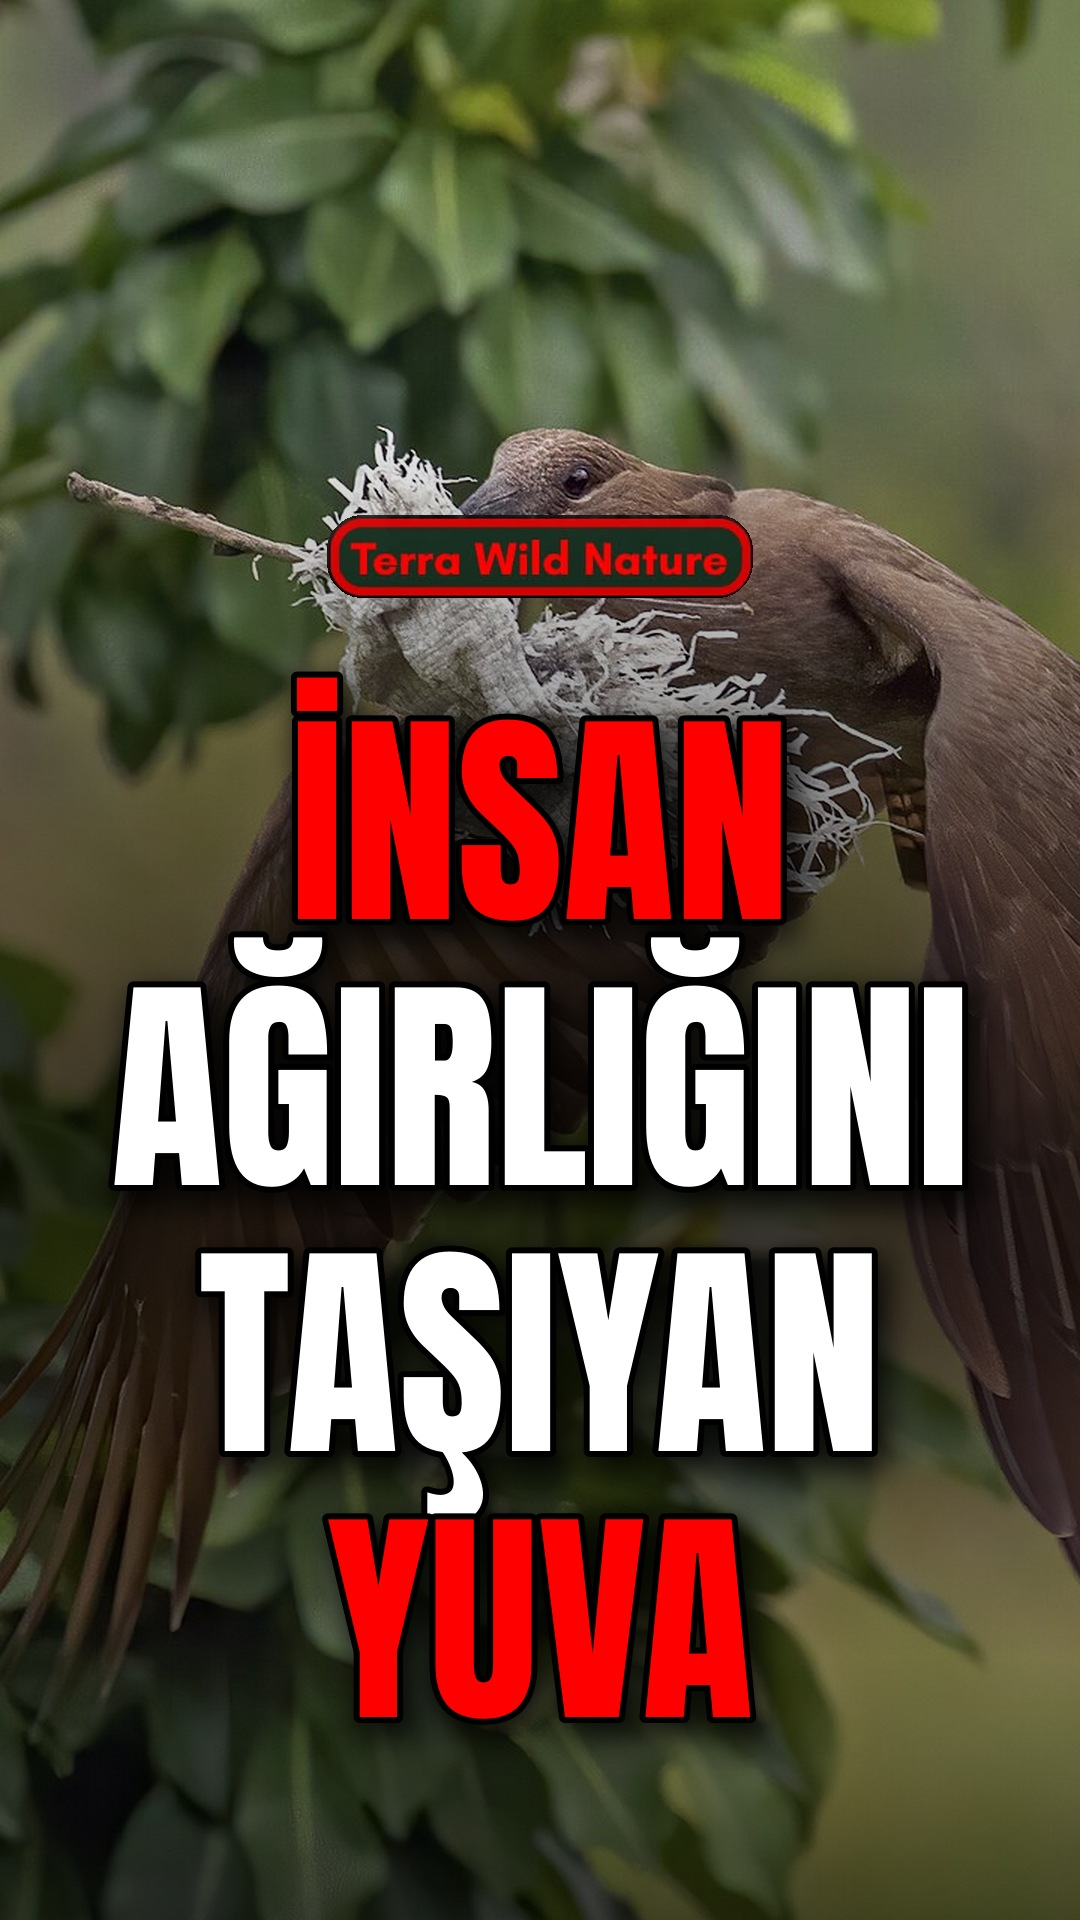
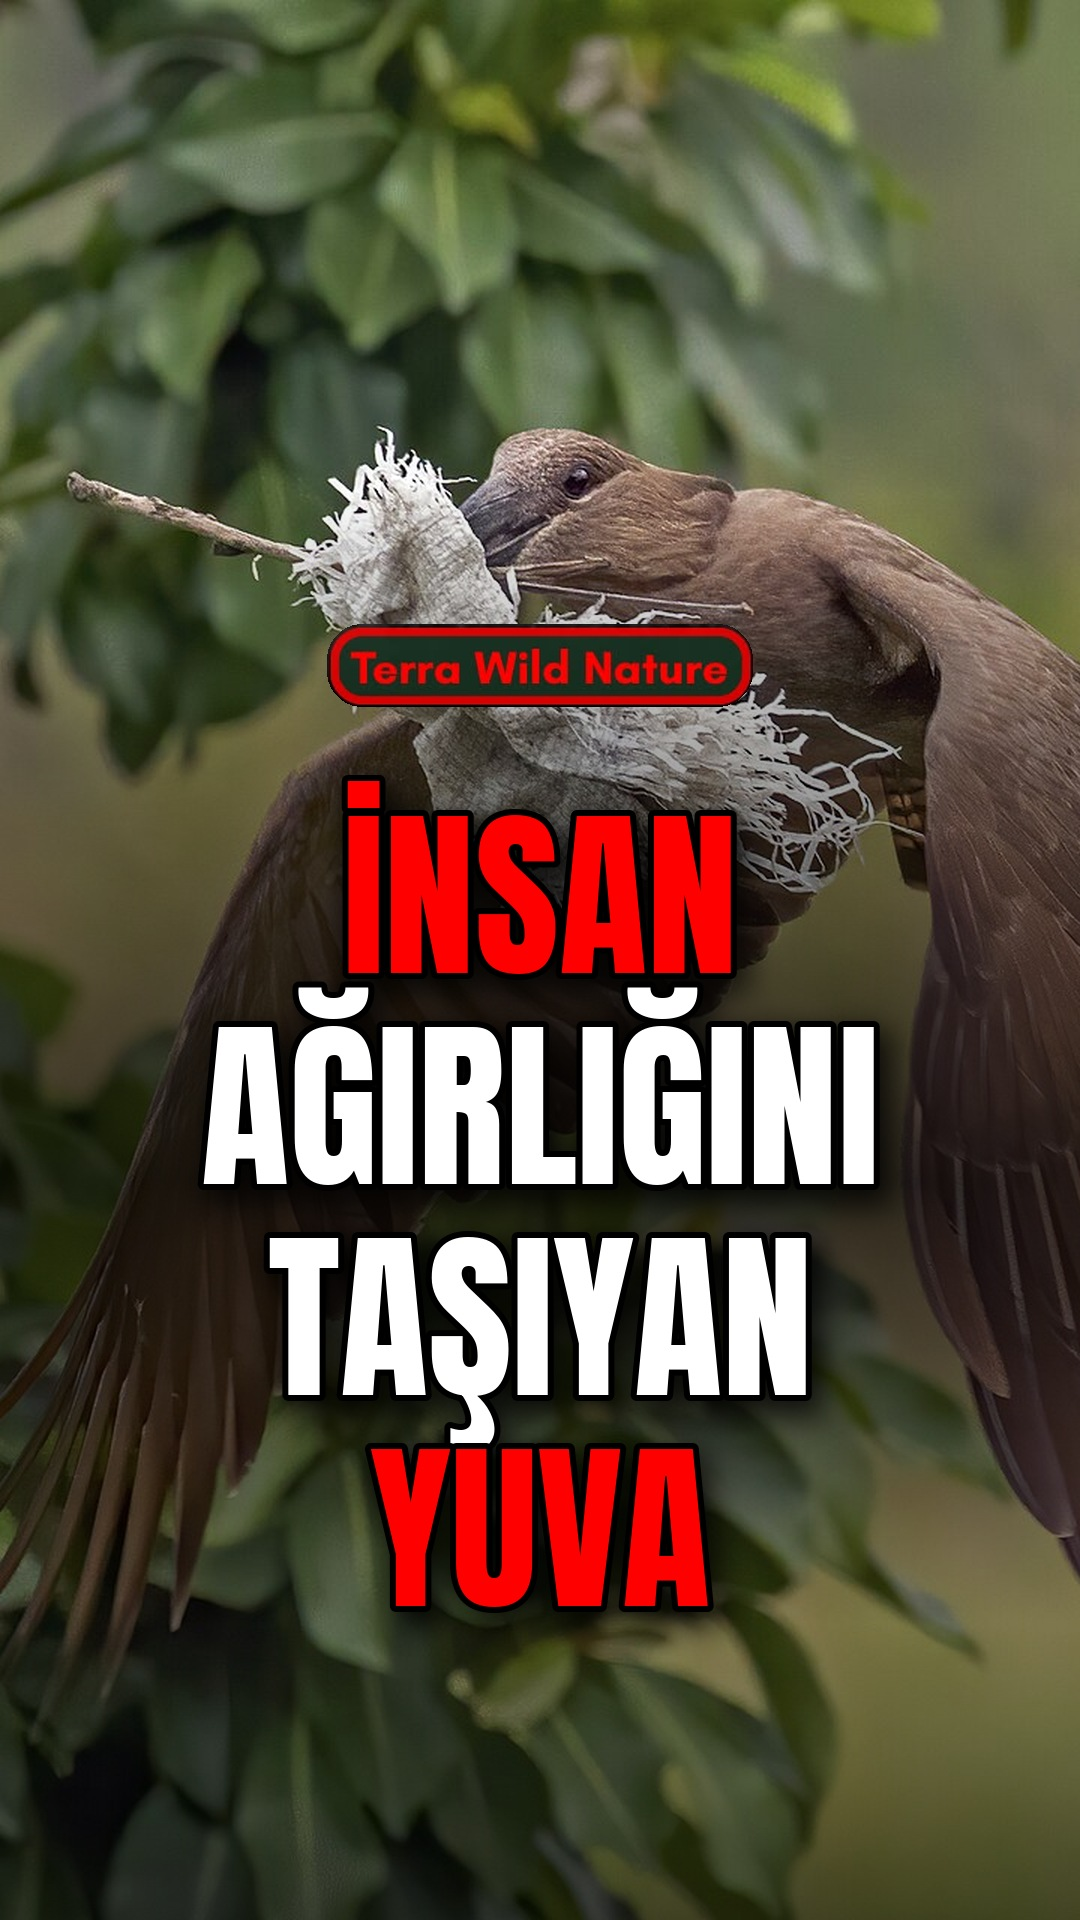
Reels kapakları sabit düzen: yazı boyutu 182, rozet ve başlık her kapakta aynı yerde; başlık 4 satır

Changed region(s): [[0.0917, 0.2188, 0.9167, 0.9062], [0.1222, 0.25, 0.1528, 0.2812]]

diff --git a/tools/reel.py b/tools/reel.py
@@ -188,6 +188,10 @@ def render_shot(img, r0, r1, n):
 
 
 # ---------------- cover ----------------
+COVER_TITLE_SIZE = 182   # px, identical on every cover
+COVER_TITLE_TOP = 758    # y of the first title line
+COVER_BADGE_Y = 624      # y of the "Terra Wild Nature" badge
+COVER_MAX_W = 990        # widest allowed title line
 def render_cover(spec, reel_dir):
     """Full-screen photo, dark fade behind a big centred headline (white + red), brand badge and logo.
     The title block sits inside the 3:4 centre area so the profile grid crop keeps it whole."""
@@ -207,19 +211,25 @@ def render_cover(spec, reel_dir):
         f = ImageFont.truetype(font_path, size)
         return f, [sum(f.getlength(t) for t, _ in parts) + gap * (len(parts) - 1) for parts in lines]
 
-    size = 230
+    # Fixed layout on every cover (the takin cover the user approved): same title size, badge and
+    # title start position no matter how long the title is. A title that doesn't fit must be shortened.
+    size = COVER_TITLE_SIZE
     f, ws = widths(size)
-    while max(ws) > 990 and size > 110:   # as big as possible while the widest line keeps a margin
-        size -= 4
-        f, ws = widths(size)
+    if not 1 <= len(lines) <= 4:
+        raise ValueError(f"cover title needs 1-4 lines, got {len(lines)}")
+    for parts, w in zip(lines, ws):
+        if w > COVER_MAX_W:
+            raise ValueError(f"COVER OVERFLOW: line '{' '.join(t for t, _ in parts)}' is {w:.0f}px wide "
+                             f"(max {COVER_MAX_W}); shorten it (about 11 characters per line)")
     line_h = int(size * 1.16)
     block_h = line_h * len(lines)
-    top = 1180 - block_h // 2           # block centred inside the 3:4 profile-grid area
+    top = COVER_TITLE_TOP
 
-    # darken behind the title block (and a little towards the bottom) so it always reads
+    # darken behind the title area (and a little towards the bottom) so it always reads
     arr = np.asarray(canvas).astype(np.float32)
     ys = np.arange(H)[:, None, None]
-    centre, half = top + block_h / 2, block_h / 2 + 260
+    full_h = line_h * 4
+    centre, half = top + full_h / 2, full_h / 2 + 260
     band = np.clip(1 - np.abs(ys - centre) / half, 0, 1) ** 0.8 * 0.72
     bottom = np.clip((ys - 1300) / 620, 0, 1) * 0.6
     canvas = Image.fromarray((arr * (1 - np.maximum(band, bottom))).astype(np.uint8))
@@ -229,7 +239,7 @@ def render_cover(spec, reel_dir):
     badge = badge.resize((int(badge.width * 1.25), int(badge.height * 1.25)), Image.LANCZOS)
     mask = Image.new("L", badge.size, 0)
     ImageDraw.Draw(mask).rounded_rectangle([0, 0, badge.width - 1, badge.height - 1], radius=35, fill=255)
-    canvas.paste(badge, ((W - badge.width) // 2, top - badge.height - 50), mask)
+    canvas.paste(badge, ((W - badge.width) // 2, COVER_BADGE_Y), mask)
 
     # soft drop shadow, then the text with a heavy black outline
     shadow = Image.new("L", (W, H), 0)

diff --git a/CLAUDE.md b/CLAUDE.md
@@ -121,7 +121,7 @@ Gönderilerden sonra `queue_reels/` klasörüne bak. **2'den az Reels varsa 1 ye
 - **Metin:** 8-9 kısa cümle, toplam **70-85 kelime** (son cümle dahil). Video 35-45 saniye olmalı; 85 kelimeyi aşma (gelada Reels'i 100+ kelimeyle 54 saniye sürdü, fazla uzun). Her bilgi Wikipedia'dan doğrulanmış olmalı. 1. cümle kanca: en şaşırtıcı bilgi. **Son cümle her zaman aynen:** `Canlılar hakkında daha fazla bilgi alabilmek için bizi takip etmeyi unutmayın.` Belgesel anlatıcısı tonu; kısa, akıcı cümleler.
 - **Sahneler:** Her cümle bir sahne, her sahnede farklı fotoğraf. Yatay fotoğraflarda `pan_left`/`pan_right` (kamera hayvanın üzerinde kayar), dikey fotoğraflarda `zoom_in`/`zoom_out`. `cx`, `cy` hayvanın (tercihen başının) konumu.
 - **Müzik:** Ruh haline göre biri: `assets/music/Reawakening.mp3` (sakin, görkemli), `assets/music/Investigations.mp3` (gizemli), `assets/music/Ancient_Rite.ogg` (vahşi, enerjik). `"loudness": -27`.
-- **Kapak:** Hayvanın net ve büyük göründüğü fotoğraf. Başlık 3-4 satır, satır başına en fazla ~12 karakter, büyük harf; ilk ve/veya son satır kırmızı (`R`), diğerleri beyaz (`W`). Kısa, çarpıcı bir kanca (ör. `350 KİLO / AMA İKİ / AYAK ÜSTÜNDE / DURABİLİYOR`).
+- **Kapak:** Hayvanın net ve büyük göründüğü fotoğraf. Başlık **tam 4 satır** (bütün kapaklar aynı görünsün diye), satır başına en fazla **~11 karakter**, büyük harf; ilk ve/veya son satır kırmızı (`R`), diğerleri beyaz (`W`). Kısa, çarpıcı bir kanca (ör. `350 KİLO / AMA İKİ / AYAK ÜSTÜNDE / DURABİLİYOR`). Kapak düzeni sabittir: yazı boyutu, rozet ve başlığın yeri her kapakta aynı, küçülmez. `--cover` komutu `COVER OVERFLOW` hatası verirse o satırı kısalt ya da kelimeyi alt satıra al.
 - **Açıklama (`caption`):** Tek cümle + 2 emoji, boş satır, `#terrawildnature #<canlıadı>`, boş satır; kamu malı olmayan fotoğraf varsa `📷 <Yazar> (<Lisans>) / Wikimedia Commons`; son satır her zaman `🎵 Kevin MacLeod (CC BY)`.
 - `credits` alanına her fotoğrafın yazarını ve lisansını yaz.
 - **Kontrol:** `python tools/reel.py --preview queue_reels/<klasör>` ve `python tools/reel.py --cover queue_reels/<klasör>` çalıştır (fotoğrafları `photos` listesinden kendisi indirir). `preview.jpg` ve `cover.jpg` dosyalarını Read ile aç: hayvan her karede görünmeli, başı kesilmemeli, kapak başlığı okunaklı ve ortada olmalı. Sorun varsa düzelt ve tekrar üret.
